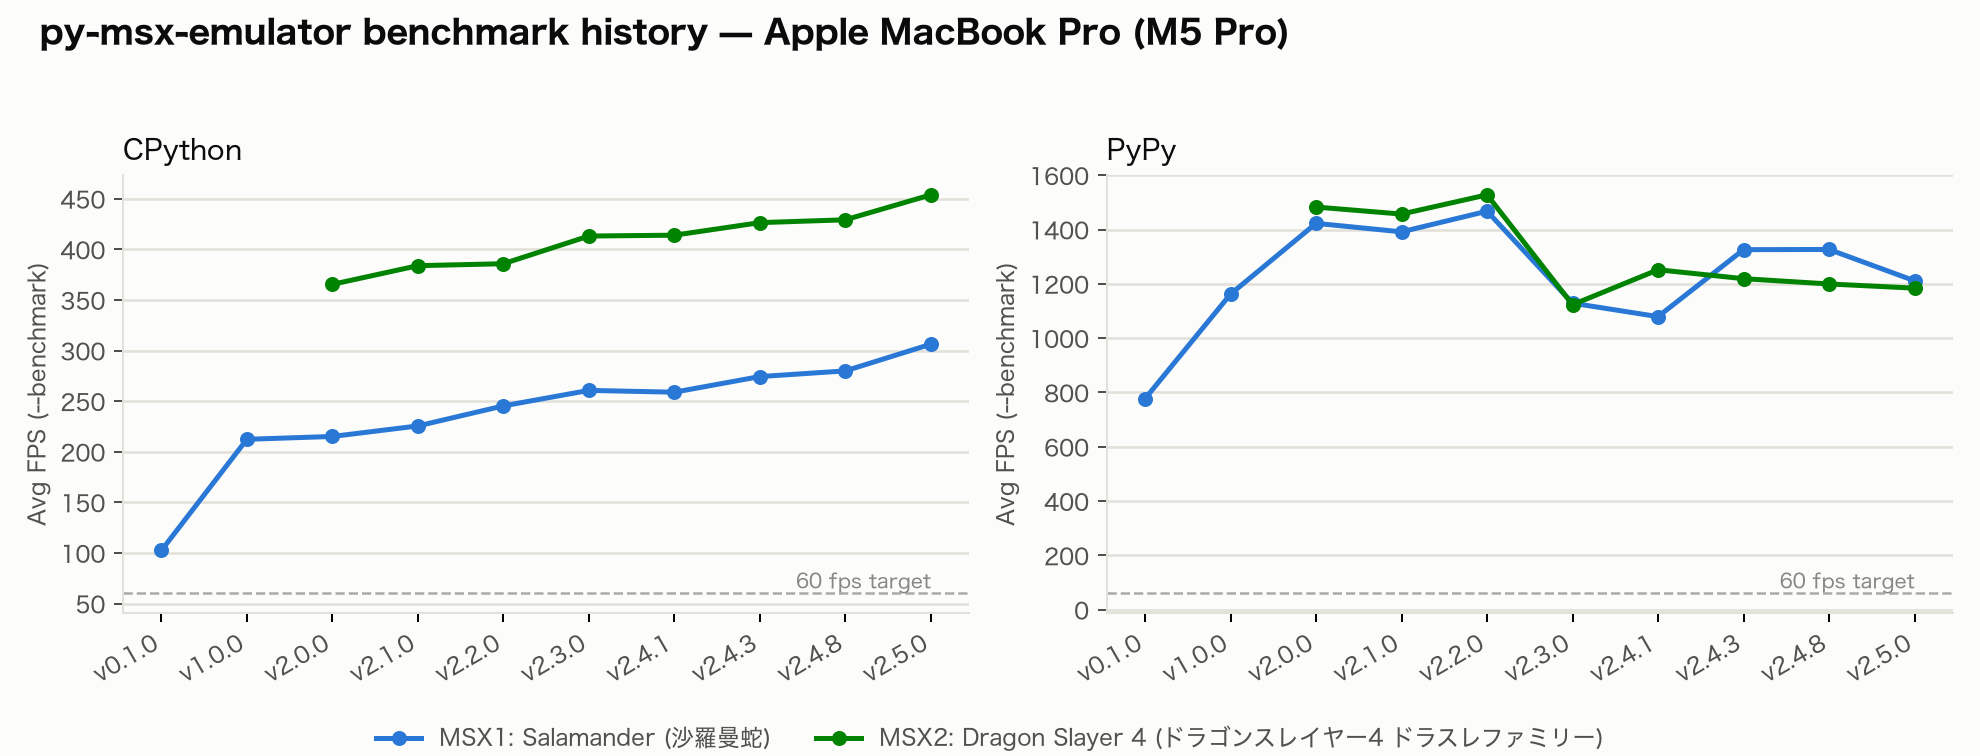
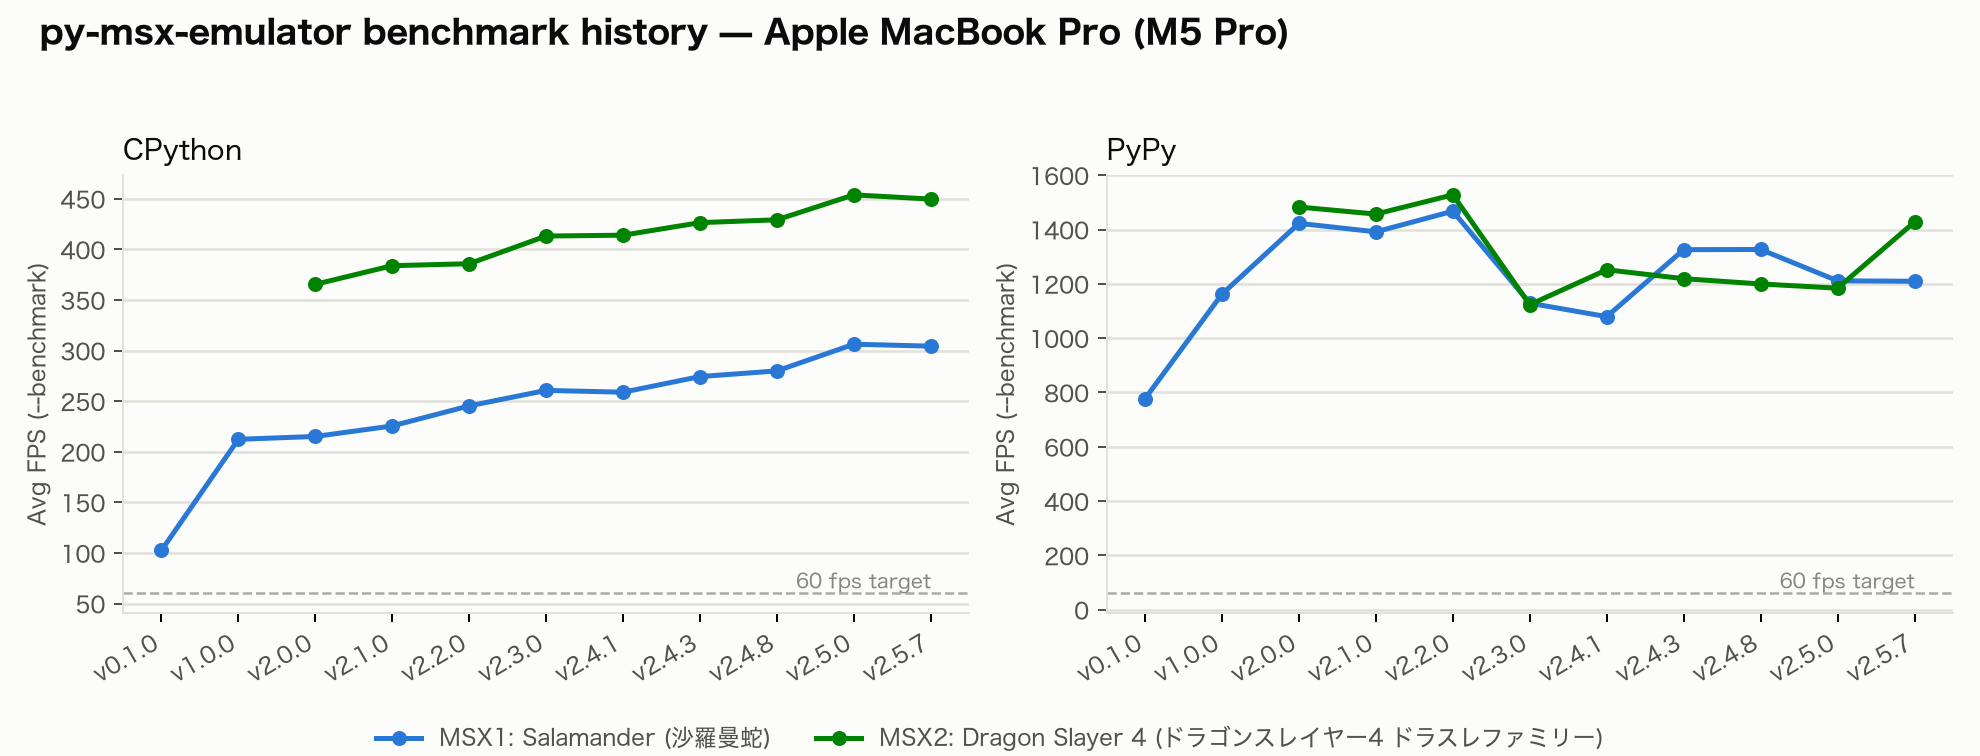
docs(readme): bump to v2.5.7, update test count/benchmarks, fix BIOS legal note
- Version bump to v2.5.7 (pyproject.toml + README badges/History), test
  count corrected from stale 2136 to 2147, and a History entry
  summarizing the port-friendliness refactor's scope and "no observable
  behavior change" verification.
- Performance table and "Benchmark history" caption updated with fresh
  v2.5.7 --benchmark numbers, and assets/bench-history-{m5pro,rpi5}.png
  regenerated via scripts/plot_benchmark_history.py from the raw log
  data added in a companion commit.
- BIOS legal note: clarified that the "don't use a copyrighted MSX BIOS
  dump" caveat doesn't apply to a dump extracted from real MSX hardware
  the user owns themselves, matching the project's existing stance on
  cartridge ROM dumps.

diff --git a/README.md b/README.md
@@ -5,7 +5,7 @@ by machine-readable component specifications.
 
 ![Python](https://img.shields.io/badge/python-3.10%2B-blue)
 ![License](https://img.shields.io/badge/license-MIT-green)
-![Tests](https://img.shields.io/badge/tests-2136%20passing-brightgreen)
+![Tests](https://img.shields.io/badge/tests-2147%20passing-brightgreen)
 
 [日本語版 README はこちら](README_ja.md)
 
@@ -452,14 +452,14 @@ score.
 
 | Platform | Runtime | Game | Avg FPS (`--benchmark`) | vs. 60 fps target |
 | --- | --- | --- | --- | --- |
-| Apple MacBook Pro (M5 Pro) | CPython 3.12.13 | MSX1: Salamander (KonamiSCC) | 306.31 | ~5.1× |
-| Apple MacBook Pro (M5 Pro) | CPython 3.12.13 | MSX2: Dragon Slayer 4 (ASCII8) | 453.91 | ~7.6× |
-| Apple MacBook Pro (M5 Pro) | PyPy 7.3.19 (Python 3.10.16) | MSX1: Salamander (KonamiSCC) | 1211.24 | ~20.2× |
-| Apple MacBook Pro (M5 Pro) | PyPy 7.3.19 (Python 3.10.16) | MSX2: Dragon Slayer 4 (ASCII8) | 1184.13 | ~19.7× |
-| Raspberry Pi 5 | CPython 3.12.13 | MSX1: Salamander (KonamiSCC) | 78.64 | ~1.3× |
-| Raspberry Pi 5 | CPython 3.12.13 | MSX2: Dragon Slayer 4 (ASCII8) | 114.76 | ~1.9× |
-| Raspberry Pi 5 | PyPy 7.3.19 (Python 3.10.16) | MSX1: Salamander (KonamiSCC) | 288.19 | ~4.8× |
-| Raspberry Pi 5 | PyPy 7.3.19 (Python 3.10.16) | MSX2: Dragon Slayer 4 (ASCII8) | 323.65 | ~5.4× |
+| Apple MacBook Pro (M5 Pro) | CPython 3.12.13 | MSX1: Salamander (KonamiSCC) | 304.38 | ~5.1× |
+| Apple MacBook Pro (M5 Pro) | CPython 3.12.13 | MSX2: Dragon Slayer 4 (ASCII8) | 449.72 | ~7.5× |
+| Apple MacBook Pro (M5 Pro) | PyPy 7.3.19 (Python 3.10.16) | MSX1: Salamander (KonamiSCC) | 1209.46 | ~20.2× |
+| Apple MacBook Pro (M5 Pro) | PyPy 7.3.19 (Python 3.10.16) | MSX2: Dragon Slayer 4 (ASCII8) | 1427.64 | ~23.8× |
+| Raspberry Pi 5 | CPython 3.12.13 | MSX1: Salamander (KonamiSCC) | 77.95 | ~1.3× |
+| Raspberry Pi 5 | CPython 3.12.13 | MSX2: Dragon Slayer 4 (ASCII8) | 115.44 | ~1.9× |
+| Raspberry Pi 5 | PyPy 7.3.19 (Python 3.10.16) | MSX1: Salamander (KonamiSCC) | 290.91 | ~4.8× |
+| Raspberry Pi 5 | PyPy 7.3.19 (Python 3.10.16) | MSX2: Dragon Slayer 4 (ASCII8) | 462.85 | ~7.7× |
 
 Every combination tested clears the raw 60 fps target. The tightest margin is
 Raspberry Pi 5 with CPython running Salamander (MSX1, KonamiSCC mapper — the
@@ -480,7 +480,7 @@ PyPy figures as broadly indicative rather than exact.
 
 ### Benchmark history
 
-Avg FPS (`--benchmark`) from v0.1.0 through v2.5.0, per platform and runtime:
+Avg FPS (`--benchmark`) from v0.1.0 through v2.5.7, per platform and runtime:
 
 ![Benchmark history on Apple MacBook Pro (M5 Pro)](assets/bench-history-m5pro.png)
 
@@ -527,8 +527,10 @@ The required filenames for each machine ID are listed in the corresponding YAML
 under `config/machines/`.
 
 > **Legal note:** do not use a copyrighted MSX BIOS dump extracted from a
-> commercial machine. C-BIOS is the recommended free and legal alternative. The
-> `roms/` directory is excluded from version control by `.gitignore`.
+> commercial machine, unless you own the corresponding real MSX hardware and
+> the dump was extracted from your own unit. C-BIOS is the recommended free
+> and legal alternative. The `roms/` directory is excluded from version
+> control by `.gitignore`.
 
 ---
 
@@ -935,7 +937,7 @@ their device YAML are skipped at load time with a warning.
 
 ## Running tests
 
-The test suite covers all major components with 2136 tests spanning unit tests
+The test suite covers all major components with 2147 tests spanning unit tests
 for individual opcodes and hardware registers, integration tests that wire
 multiple components together, and scenario-level tests whose conditions are
 derived directly from the component specs.
@@ -998,7 +1000,7 @@ py-msx-emulator/
 ├── allium/                # Allium behaviour specs, verifying spec/implementation alignment (not included in the public repository)
 ├── openspec/
 │   └── specs/             # Component specifications (not included in the public repository)
-├── tests/                 # Test suite — 2136 tests
+├── tests/                 # Test suite — 2147 tests
 ├── requirements.txt       # Runtime dependencies
 ├── requirements-dev.txt   # Development dependencies
 └── pyproject.toml         # Project metadata and tool configuration
@@ -1059,6 +1061,7 @@ MIT — see [LICENSE](LICENSE).
 
 ## History
 
+- **v2.5.7** (2026-08-20) — Large internal refactor preparing for an eventual Rust/C++ port: mapper save-state now uses a tagged `MapperKind` enum instead of untyped dicts, `Memory`'s cache invalidation moved to explicit setter methods, and the debugger's reflection-based mapper/slot introspection was replaced with explicit interface methods. No observable behavior change (verified via a multi-angle code review and an Allium spec-alignment check).
 - **v2.5.6** (2026-08-19) — Fix the JIS ¥ key never reaching the MSX keyboard matrix on macOS: SDL2 reports it with a consistent scancode but an inconsistent keysym, so `key_down`/`key_up` now resolve it from scancode alone.
 - **v2.5.5** (2026-08-19) — Fix an `Ascii16Sram2Mapper` write-side open-bus leak (writes at or above 0xC000 could corrupt SRAM while a window was SRAM-mapped) and give `RTypeMapper` a flat read mirror, closing the last mapper class still resolving its window on every read.
 - **v2.5.4** (2026-08-19) — Fix three Konami-family mapper bugs (`KonamiMapper`/`KonamiSCCMapper`/`MajutsushiMapper`) found by cross-checking against openMSX source: address mirroring outside the ROM windows, bank-select page arithmetic, and SCC-enable writes not updating the bank register. Adds a new Allium spec for this mapper family and fixes an unrelated test-isolation bug in `test_cli_scc_plus.py`.
